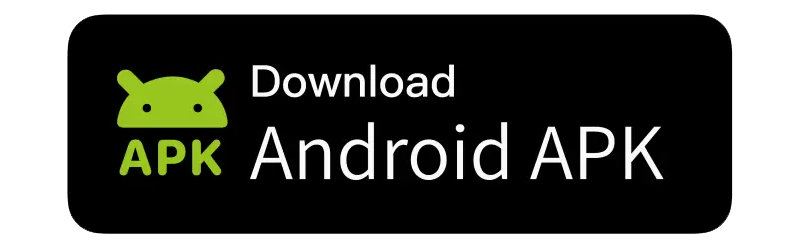
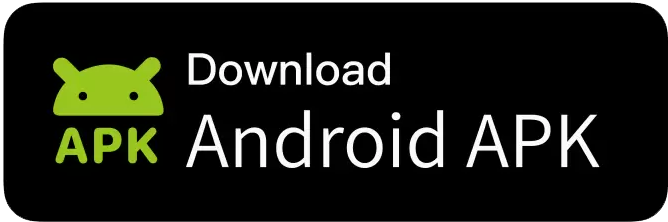
Header

diff --git a/includes/footer.php b/includes/footer.php
@@ -2,16 +2,39 @@
 
 
 <style>
-    .col-xxl-8 {
-        flex: 0 0 auto;
-        width: 100.666667%;
-    }
+
+.col-xxl-8 {
+    flex: 0 0 auto;
+    width: 100.666667%;
+}
 
     .social-area {
         margin-left: -65px;
         /* margin-top: 25px; */
     }
 </style>
+
+<section class="provide-world pt-120 position-relative z-0 " style="background-color: #000;">
+    <div class="container">
+        <div class="row justify-content-center">
+            <div class="col-lg-7 col-xxl-6">
+                <div class="heading__content mb-10 mb-lg-15 text-center">
+                    <h2 class="" style="font-size:35px; width:107%">Trade your way. Trade with confidence
+                    </h2>
+                    <span class="heading p1-color fs-six mb-5" style="margin-top:12px;">Trade with</span>
+                 
+               
+                    <a href="signup.html" class="cmn-btn fs-six-up nb4-xxl-bg gap-2 gap-lg-3 align-items-center py-2 px-4 py-lg-3 px-lg-5 mt-7 mt-xxl-8 " style="font-weight: bold; --top: 48.609375px; --left: 193px;">Start Trading Now</a>
+                    <span class="heading p1-color fs-six mb-5" style="margin-top:12px;">Instant account opening & funding</span>
+               
+                </div>
+            </div>
+        </div>
+      
+    </div>
+</section>
+
+
 <footer class="footer a2-bg position-relative pt-15 pt-lg-0 z-0 ">
     <div class="animation position-absolute top-0 left-0 w-100 h-100 z-n1 d-none d-xxxl-flex">
         <img src="assets/images/vector.png" alt="vector" class="position-absolute jello">
@@ -62,10 +85,10 @@
                             <a class="d-center cus-rounded-1 fs-four" href="#"><i class="ti ti-brand-youtube"></i></a>
                         </li>
                         <li>
-
+                           
                         </li>
                         <li>
-
+                            
                         </li>
                     </ul>
                 </div>
@@ -173,7 +196,7 @@
                         <li>
                             <a class="n2-color" href="help-center.php">Help Center</a>
                         </li>
-
+                       
 
                     </ul>
                 </div>
@@ -192,97 +215,76 @@
             </div> -->
 
 
-            <!--Privacy & Policy start-->
-            <section class="privacy-policy pt-20 ">
-                <div class="container">
-                    <div class="row justify-content-center">
-                        <div class="col-lg-10 col-xxl-8">
-                            <div class="nb3-lg-bg pb-0 pb-md-4 p-4 p-sm-10 p-lg-15 cus-rounded-2">
-                                <h3 class="text-center ">Disclaimer</h3>
-                                <div class="privacy-policy__card d-flex flex-column ">
-                                    <div class="privacy-policy__part">
-                                        <h6 class="mb-4">Risk Warning :</h6>
-                                        <p class="mt-4 mb-5" style="font-size: 15px;">Please note that foreign exchange,
-                                            cryptocurrency and other leveraged trading &
-                                            investments involve significant risk of loss. It is not suitable for all
-                                            investors and
-                                            you should make sure you understand the risks involved, seeking independent
-                                            advice if
-                                            necessary.
-                                        </p>
-                                    </div>
-                                    <div class="privacy-policy__part">
-                                        <h6 class="mb-4">Regional Restrictions:</h6>
-                                        <p class="mt-4 mb-5" style="font-size: 15px;"> It is the responsibility of the
-                                            Client to ascertain whether he/she is
-                                            permitted to use the services of TradersEra based on the legal requirements
-                                            in his/her
-                                            country of residence.
-                                        </p>
-                                        <p class="mt-4 mb-5" style="font-size: 15px;">TradersEra does not provide
-                                            services to residents of the USA, Japan,
-                                            Canada, Australia, the Democratic Republic of Korea, European Union, United
-                                            Kingdom.
-                                        </p>
-
-                                    </div>
-
-                                </div>
-                            </div>
+<!--Privacy & Policy start-->
+<section class="privacy-policy pt-20 ">
+    <div class="container">
+        <div class="row justify-content-center">
+            <div class="col-lg-10 col-xxl-8">
+                <div class="nb3-lg-bg pb-0 pb-md-4 p-4 p-sm-10 p-lg-15 cus-rounded-2" >
+                    <h3 class="text-center ">Disclaimer</h3>
+                    <div class="privacy-policy__card d-flex flex-column ">
+                        <div class="privacy-policy__part">
+                            <h6 class="mb-4">Risk Warning :</h6>
+                            <p class="mt-4 mb-5" style="font-size: 15px;">Please note that foreign exchange, cryptocurrency and other leveraged trading &
+                                investments involve significant risk of loss. It is not suitable for all investors and
+                                you should make sure you understand the risks involved, seeking independent advice if
+                                necessary.
+                            </p>
                         </div>
-                    </div>
-                </div>
-            </section>
+                        <div class="privacy-policy__part">
+                            <h6 class="mb-4">Regional Restrictions:</h6>
+                            <p class="mt-4 mb-5" style="font-size: 15px;"> It is the responsibility of the Client to ascertain whether he/she is
+                                permitted to use the services of TradersEra based on the legal requirements in his/her
+                                country of residence.
+                                </p>
+                            <p class="mt-4 mb-5" style="font-size: 15px;">TradersEra does not provide services to residents of the USA, Japan,
+                                Canada, Australia, the Democratic Republic of Korea, European Union, United Kingdom.
+                            </p>
 
-            <div class="container-fluid">
-                <br><br>
-                <div class="row">
-                    <div class="col-12 border-top border-color opac-20 py-7 py-xxl-8">
-                        <div class="footer__copyright d-center gap-15 flex-wrap justify-content-md-between">
-                            <ul class=" d-center gap-2 gap-md-3">
-                                <li><a class="n2-color" href="terms-condition.php">Terms & Conditions</a></li>
-                                <li><a class="n2-color" href="risk-disclaimer.php">Risk Disclaimer</a></li>
-                                <li><a class="n2-color" href="privacy-policy.php">Privacy Policy</a></li>
-                                <li><a class="n2-color" href="aml-kyc.php">AML & KYC Policy</a></li>
-                            </ul>
-
-                            <ul class="social-area d-center gap-2 gap-md-3">
-                                <li><img style="border:1px solid white; border-radius:17px;  height:35px;"
-                                    src="assets/images/_app store.png"></li>
-                                    <li><img style="border:1px solid white; border-radius:17px;  height:35px;"
-                                        src="assets/images/_google play store.png"></li>
-                                        <li><img style="border:1px solid white; border-radius:17px;  height:35px;"
-                                            src="assets/images/_download APK.png"></li>
-                             
-                            </ul>
-                            
-                            <ul class="social-area d-center gap-2 gap-md-3">
-                                <li><a class="d-center cus-rounded-1 fs-four" href="#"><i
-                                            class="ti ti-brand-facebook"></i></a></li>
-                                <li><a class="d-center cus-rounded-1 fs-four" href="#"><i
-                                            class="ti ti-brand-twitch"></i></a></li>
-                                <li><a class="d-center cus-rounded-1 fs-four" href="#"><i
-                                            class="ti ti-brand-instagram"></i></a></li>
-                                <li><a class="d-center cus-rounded-1 fs-four" href="#"><i
-                                            class="ti ti-brand-discord-filled"></i></a></li>
-                                <li><a class="d-center cus-rounded-1 fs-four" href="#"><i
-                                            class="ti ti-brand-youtube"></i></a></li>
-                            </ul>
                         </div>
+
                     </div>
                 </div>
             </div>
-</footer>
-<!-- Footer Section Ends -->
-<!-- ==== js dependencies start ==== -->
-<script data-cfasync="false" src="assets/cdn-cgi/scripts/5c5dd728/cloudflare-static/email-decode.min.js"></script>
-<script src="assets/js/plugins/plugins.js"></script>
-<script src="assets/js/plugins/plugin-custom.js"></script>
-<script src="assets/js/main.js"></script>
+        </div>
+    </div>
+</section>
+
+        <div class="container-fluid">
+            <br><br>
+            <div class="row">
+                <div class="col-12 border-top border-color opac-20 py-7 py-xxl-8">
+                    <div class="footer__copyright d-center gap-15 flex-wrap justify-content-md-between">
+                        <ul class=" d-center gap-2 gap-md-3">
+                            <li><a class="n2-color" href="terms-condition.php">Terms & Conditions</a></li>
+                            <li><a class="n2-color" href="risk-disclaimer.php">Risk Disclaimer</a></li>
+                            <li><a class="n2-color" href="privacy-policy.php">Privacy Policy</a></li>
+                            <li><a class="n2-color" href="aml-kyc.php">AML & KYC Policy</a></li>
+                        </ul>
+                      
+                      
+                        <ul class="social-area d-center gap-2 gap-md-3">
+                            <li><a class="d-center cus-rounded-1 fs-four" href="#"><i class="ti ti-brand-facebook"></i></a></li>
+                            <li><a class="d-center cus-rounded-1 fs-four" href="#"><i class="ti ti-brand-twitch"></i></a></li>
+                            <li><a class="d-center cus-rounded-1 fs-four" href="#"><i class="ti ti-brand-instagram"></i></a></li>
+                            <li><a class="d-center cus-rounded-1 fs-four" href="#"><i class="ti ti-brand-discord-filled"></i></a></li>
+                            <li><a class="d-center cus-rounded-1 fs-four" href="#"><i class="ti ti-brand-youtube"></i></a></li>
+                        </ul>
+                    </div>
+                </div>
+            </div>
+        </div>
+    </footer>
+    <!-- Footer Section Ends -->
+    <!-- ==== js dependencies start ==== -->
+    <script data-cfasync="false" src="assets/cdn-cgi/scripts/5c5dd728/cloudflare-static/email-decode.min.js"></script><script src="assets/js/plugins/plugins.js"></script>
+    <script src="assets/js/plugins/plugin-custom.js"></script>
+    <script src="assets/js/main.js"></script>
 </body>
 
 
 <!-- Mirrored from pixner.net/tradez/main/index.html by HTTrack Website Copier/3.x [XR&CO'2014], Tue, 16 Jan 2024 07:19:07 GMT -->
-
 </html>
 <!--Privacy & Policy end -->
+
+

diff --git a/commission.php b/commission.php
@@ -16,4 +16,92 @@
     </div>
 </section>
 
+<section class="trade_on trade_on--secondary pt-120 pb-120 position-relative z-0">
+    <div class="animation position-absolute top-0 left-0 w-100 h-100 z-n1">
+        <img src="assets/images/star3.png" alt="vector"
+            class="position-absolute push_animat d-none d-xxxl-flex top-0 start-0 pt-lg-16 ps-20 ms-lg-8">
+        <img src="assets/images/sun2.png" alt="vector"
+            class="sun2 position-absolute push_animat d-none d-xxl-flex bottom-0 pb-120">
+    </div>
+    <div class="container">
+        <div class="row gy-10 gy-xxl-0 justify-content-center justify-content-xxl-between align-items-center">
+          
+            <div class="col-md-10 col-lg-6 col-xxl-5">
+                <div class="trade_on__content">
+                    <h4 class="mb-4 mb-lg-5">Create your personalized plan.</h4>
+                    <p class="mx-ch">
+We customized the commission structure for you tailored to suit your requirements and preferences. By collaborating we aim to create a strategy that will propel your business towards prosperity and achievement.
+</p>
+                    <br>
+                  
+                    <a href="signup.html"
+                        class="cmn-btn fs-six-up nb4-xxl-bg gap-2 gap-lg-3 align-items-center py-2 px-4 py-lg-3 px-lg-5 mt-7 mt-xxl-8" style="margin-right:18px; font-weight: bold;">Sign up
+</a>
+                    <!-- <a href="signup.html"
+                        class="cmn-btn fs-six-up nb4-xxl-bg gap-2 gap-lg-3 align-items-center py-2 px-4 py-lg-3 px-lg-5 mt-7 mt-xxl-8 "  style="font-weight: bold;">Withdrawal</a> -->
+                </div>
+            </div>
+
+            <div class="col-10 col-sm-8 col-md-7 col-lg-6 order-2 order-lg-0">
+                <div class="trade_on__thumbs d-flex justify-content-end">
+                    <img src="assets/images/withdrawal-sec2.png" alt="Imgae">
+                </div>
+            </div>
+        </div>
+    </div>
+</section>
+
+
+<section class="provide-world pt-120 position-relative z-0">
+        <div class="container">
+            <div class="row justify-content-center">
+                <div class="col-lg-7 col-xxl-6">
+                    <div class="heading__content mb-10 mb-lg-15 text-center">
+                        <h3 class="mb-5 mb-lg-6">TradersEra's Rewarding Commission 
+</h3>
+                        <p class="fs-six-up mx-ch mx-auto">At TradersEra, we believe in rewarding our partners for their efforts. Designed to suit your preferences and maximize your earning potential.</p>
+                    </div>
+                </div>
+            </div>
+            <div class="row gy-6 gy-xxl-0">
+                <div class="col-md-6 col-xxl-4">
+                    <div class="provide-world__card secondary nb3-bg text-center cus-rounded-1 py-5 py-lg-10 px-4 px-lg-9">
+                        <span class="provide-card__icon d-center nb4-bg p-4 rounded-circle mx-auto">
+                            <i class="ti ti-file fs-three p1-color"></i>
+                        </span>
+                       <h4 class="mt-5 mb-5">Cost Per Acquisition</h4>
+                       <p>With our CPA program, you'll receive a fixed payment for every client you refer to TradersEra. This ensures a consistent rate for every new trader you bring onboard.
+</p><br>
+                       <!-- <a href="terms-conditions.html" class="cmn-btn link third-link fs-five  gap-2 gap-lg-3 align-items-center mt-5">Learn More<i class="ti ti-arrow-narrow-right"></i></a> -->
+                    </div>
+                </div>
+                <div class="col-md-6 col-xxl-4">
+                    <div class="provide-world__card secondary nb3-bg text-center cus-rounded-1 py-5 py-lg-10 px-4 px-lg-9">
+                        <span class="provide-card__icon d-center nb4-bg p-4 rounded-circle mx-auto">
+                            <i class="ti ti-world fs-three p1-color"></i>
+                        </span>
+                       <h4 class="mt-5 mb-5">Revenue Share</h4>
+                       <p>Build long-term partnerships with our RevShare program, where you'll earn a percentage of your client's trading volume. As long as they keep trading, you'll continue to see profits rolling in.
+</p><br>
+                       <!-- <a href="privacy-policy.html" class="cmn-btn link third-link fs-five  gap-2 gap-lg-3 align-items-center mt-5">Learn More<i class="ti ti-arrow-narrow-right"></i></a> -->
+                    </div>
+                </div>
+                <div class="col-md-6 col-xxl-4">
+                    <div class="provide-world__card secondary nb3-bg text-center cus-rounded-1 py-5 py-lg-10 px-4 px-lg-9">
+                        <span class="provide-card__icon d-center nb4-bg p-4 rounded-circle mx-auto">
+                            <i class="ti ti-shield-lock-filled fs-three p1-color"></i>
+                        </span>
+                       <h4 class="mt-5 mb-5">Master Affiliate</h4>
+                       <p>  Whether you prefer referring clients or affiliates, our Master Affiliate program has you covered. Earn commissions on your clients' traffic and trading activities, as well as a percentage of your sub-affiliates' performance.</p>
+                        <!-- <a href="terms-conditions.html" class="cmn-btn link third-link fs-five  gap-2 gap-lg-3 align-items-center mt-5">Learn More<i class="ti ti-arrow-narrow-right"></i></a> -->
+                    </div>
+                </div>
+                
+            </div>
+            
+        </div>
+        
+    </section>
+    <br><br>
+
 <?php include("includes/footer.php"); ?>

diff --git a/economic-calendar.php b/economic-calendar.php
@@ -24,12 +24,17 @@
     }
 </style>
 
-<section class="provide-world a2-bg pt-120">
+
+
+<section class="provide-world a2-bg">
     <div class="container">
         <div class="row justify-content-center">
             <div class="col-lg-8 col-xxl-12">
                 <!-- TradingView Widget BEGIN -->
-                <h2 class="d-flex justify-content-center" style="margin-bottom: 60px;">Economic Calender</h2>
+                <h2 class="d-flex justify-content-center" style="margin-bottom: 30px;">Stay Ahead with TradersEra's Economic Calendar</h2>
+                <p class="fs-six-up mx-ch mx-auto">Maximize Your Forex Trading Potential with Real-Time Market Insights
+</p>
+<br><br>
                 <div class="tradingview-widget-container">
                     <div class="tradingview-widget-container__widget"></div>
                     <div class="tradingview-widget-copyright"><a href="https://in.tradingview.com/"
@@ -40,7 +45,7 @@
                                 "colorTheme": "light",
                                 "isTransparent": false,
                                 "width": "1300",
-                                "height": "700",
+                                "height": "800",
                                 "locale": "in",
                                 "importanceFilter": "-1,0,1",
                                 "countryFilter": "ar,au,br,ca,cn,fr,de,in,id,it,jp,kr,mx,ru,sa,za,tr,gb,us,eu"

diff --git a/index.php b/index.php
@@ -805,8 +805,9 @@
                     <p class="mx-ch">All you require in a single app.</p>
 
                     <div class="col-4 mt-4" style="display: flex; justify-content: space-evenly; ">
-                        <img style="border:1px solid white; border-radius:17px;" src="assets/images/_app store.png">
-                        <img style="border:1px solid white; border-radius:17px; margin-left:20px;" src="assets/images/_google play store.png">
+                        <img style="border:1px solid white; border-radius:10px;" src="assets/images/_app store.png">
+                        <img style="border:1px solid white; border-radius:10px; margin-left:20px;" src="assets/images/_google play store.png">
+                        <img style="border:1px solid white; border-radius:10px; margin-left:20px;" src="assets/images/_download APK.png">
                     </div>
                 </div>
             </div>
